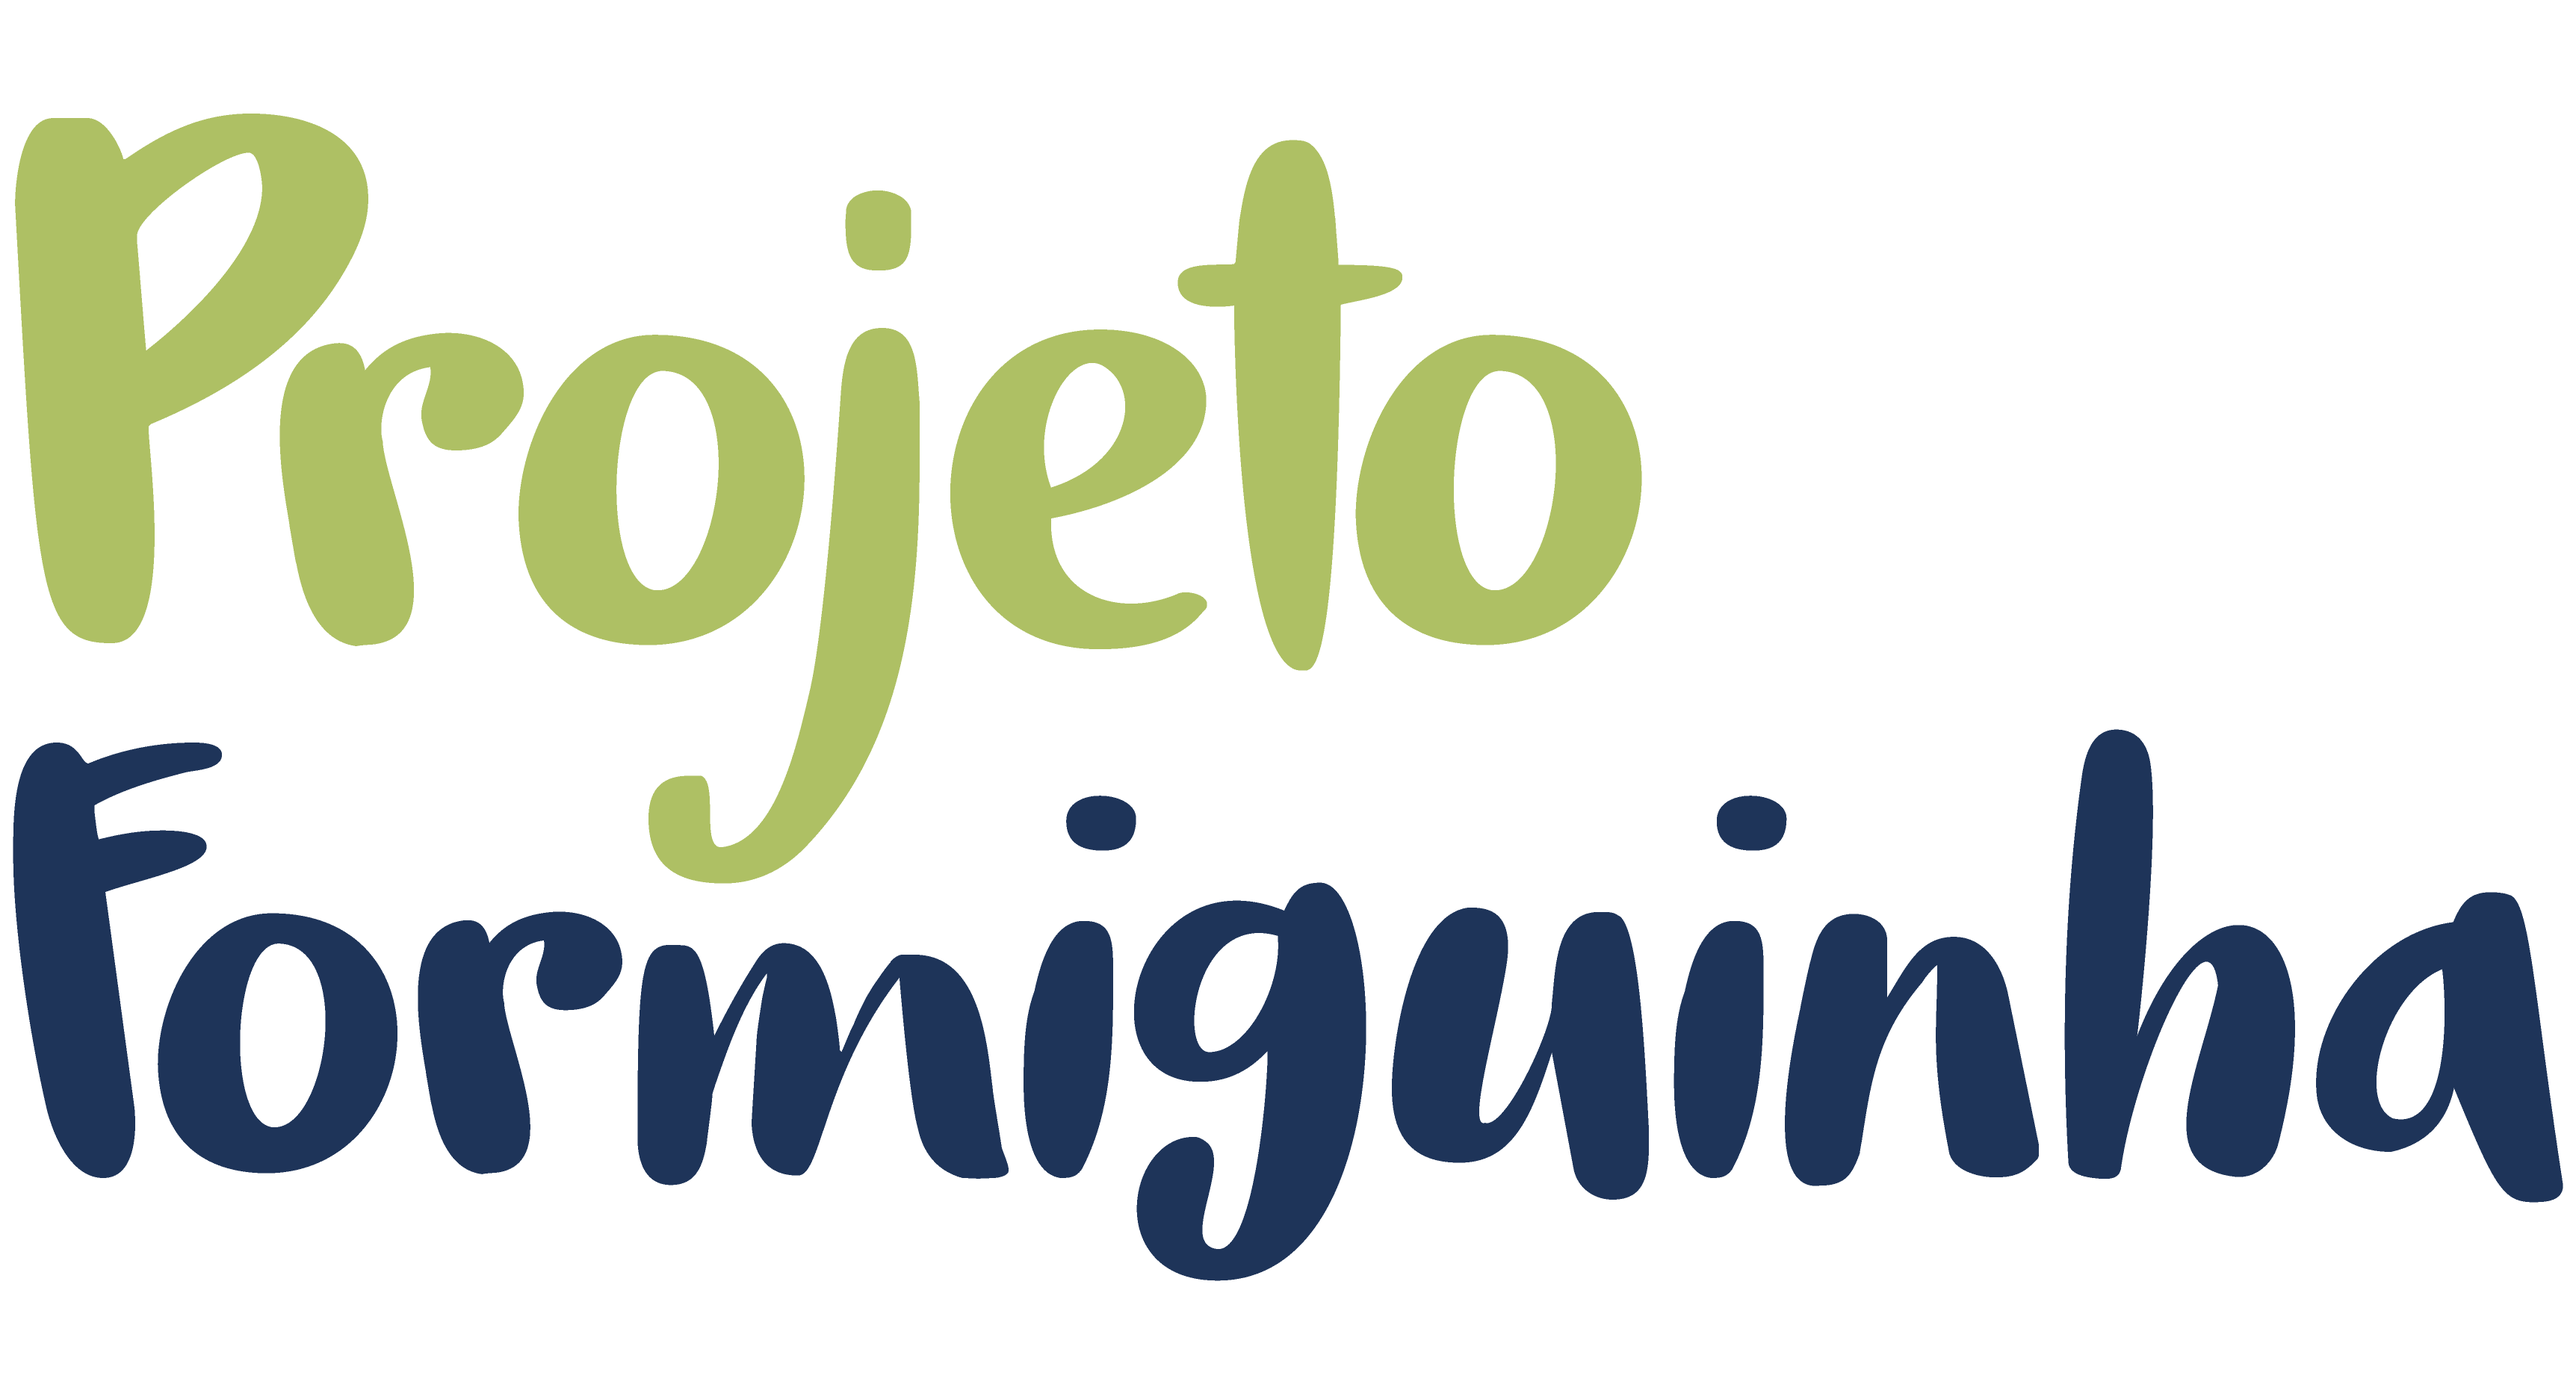
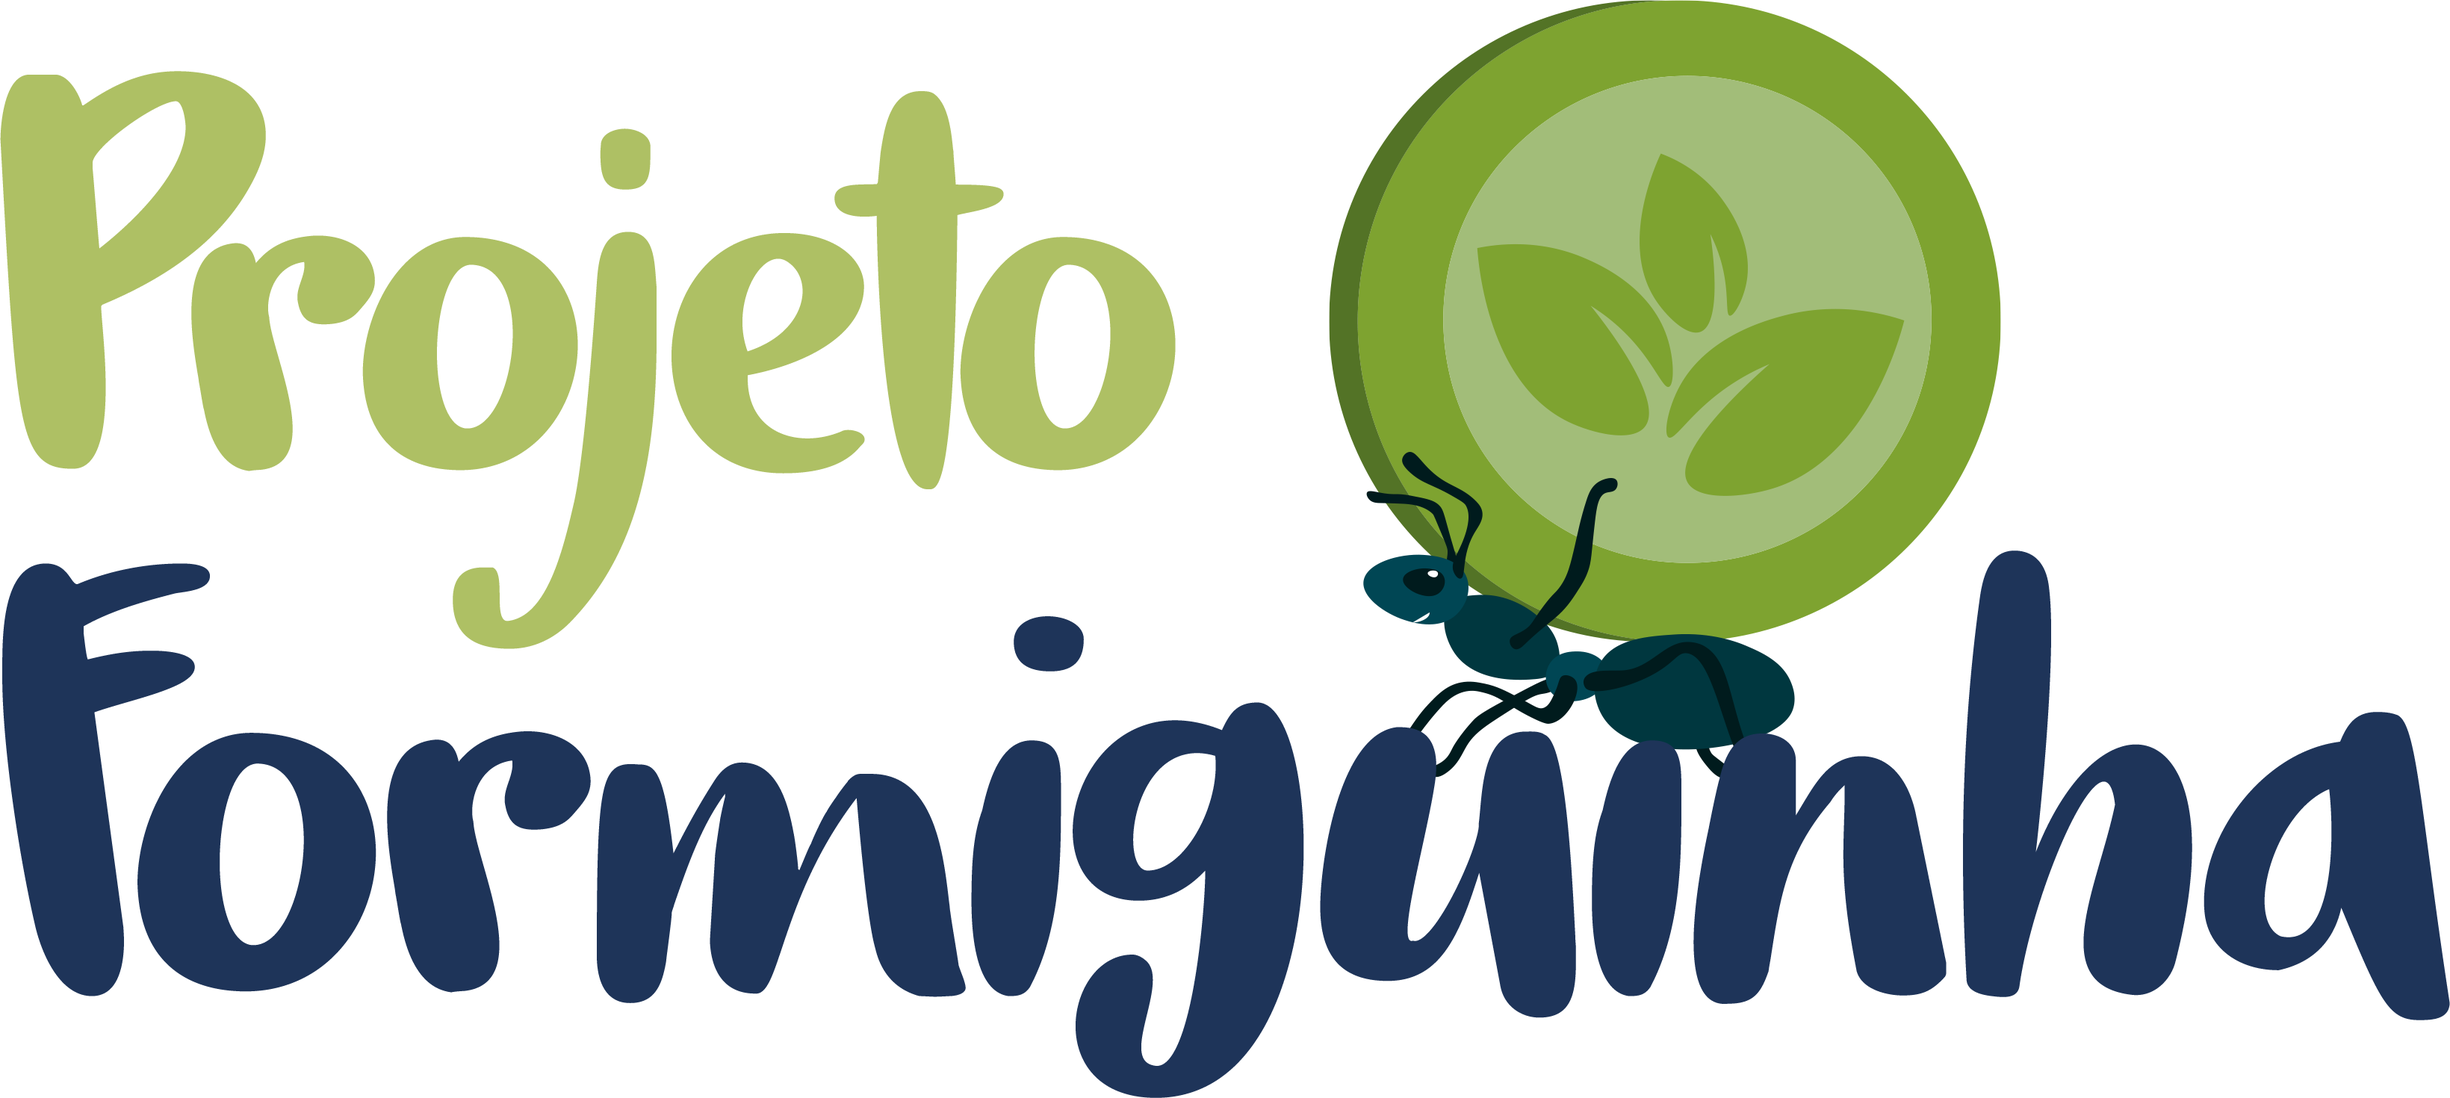
juntar nav e o carrossel atualizado

diff --git a/website/static/css/index.css b/website/static/css/index.css
@@ -10,54 +10,44 @@ body{
     font-family: 'Spinnaker', sans-serif;
 }
 
-.carrossel{
+#carrossel{
+    grid-area: carrossel;
     display: flex;
     flex-direction: column;
     align-items: center;
     grid-area: carrossel;
 }
 
-#slide_caixa{
-    height: 100%;
-    width: 100%;
-    transition-property: all;
-    transition-duration: 0.5s;
-    transition-timing-function: ease-in;
-    transition-delay: 0.5s;
-    background-size: cover;
-
-}
-
-/* ESTILIZAR SETINHAS PARA A TROCA DE IMAGEM */
-/* 
-.setinhas{
+#carrossel div{
     display: flex;
-    align-items: center;
+    flex-direction: column-reverse;
+    flex-wrap: nowrap;
+    align-items: flex-end;
 }
-.setinha_maior, .setinha_menor{
-width: 80px;
-height: 80px;
-color: #fff;
-text-align: center;
-font-size: 3em;
-border-radius: 100px;
-background: rgba(0, 0, 0, 0.5);
-position: absolute;
-top:220px;
-left: 15px;
+
+#carrossel img{
+    position: absolute;
+    height: 300px;
+    width: 300px;
 }
-.setinha_maior{
-right: 15px;
-left: auto;
+
+.geometrica{
+    border-top: 100px solid transparent;
+    border-right-width: 1500px; 
+    border-right-style: solid; 
+    border-right-color: #fdfdfd;
 }
-.setinha_maior:hover, .setinha_menor:hover{
-   background: rgba(0, 0, 0, 0.8);
-   transition-property: all;
-   transition-duration: .5s;
-   transition-timing-function: ease-out;
-   transition-delay: 0.2s;
-   cursor: pointer;
-} */
+
+.sombra{
+    display: flex;
+    flex-direction: column-reverse;
+    flex-wrap: nowrap;
+    align-items: flex-end;
+    background: rgba(0, 0, 0, 0.349);
+    width: 100%;
+    height: 100%;
+    top: 0;
+}
 
 .dados{
     background-color: rgb(31, 42, 140);

diff --git a/website/templates/index.html b/website/templates/index.html
@@ -6,10 +6,11 @@
     <meta charset="UTF-8">
     <meta name="viewport" content="width=device-width, initial-scale=1.0">
     <meta http-equiv="X-UA-Compatible" content="ie=edge">
+    <link rel="shortcut icon" href="{% static 'img/logo/formiga_logo.png' %}" type="image/x-icon"/>
     <link href="https://fonts.googleapis.com/css?family=Spinnaker&display=swap" rel="stylesheet">
     <link href="https://fonts.googleapis.com/css?family=Ubuntu&display=swap" rel="stylesheet">
     <link rel="stylesheet" href="{% static 'css/index.css' %}">
-    <link rel="stylesheet" href="{% static 'css/nav.css' %}">
+    <link rel="stylesheet" href="{% static 'css/navindex.css' %}">
     <link rel="stylesheet" href="{% static 'css/footer.css' %}">
     <script defer src="{% static 'js/index.js' %}"></script>
     <title>Projeto Formiguinha</title>
@@ -18,21 +19,18 @@
 <body>
     {% include 'shared/nav.html' %}
 
-    <section class="carrossel" id="slide_caixa">
-        <!-- <div class="setinhas">
-                    <a href="#" class="setinha_menor">&lt;</a>
-                    <a href="#" class="setinha_maior">&gt;</a>
-            </div> -->
+    <section id="carrossel">
+        <div class="sombra">
+            <div class="geometrica"></div>
+        </div>
     </section>
 
-    <!-- CRIAR SESSÃO PARA A PESQUISA DE DADOS -->
     <section class="dados">
         <div></div>
         <div></div>
         <div></div>
     </section>
 
-    <!-- CRIAR SESSAO PARA OS EIXOS QUE O PROJETO ABORDA -->
     <section class="steps">
         <div>
             <img src="static/img/index/passos.png" alt="">

diff --git a/website/templates/shared/nav.html b/website/templates/shared/nav.html
@@ -1,30 +1,22 @@
 {% if user.is_authenticated %}
 <nav id="menu_logout">
-    <a href="/"><img src="/static/img/nav/formiga_logo.png" alt=""></a>
-    <div class="menu_esquerdo">
-        <a href="/loja">Loja</a>
-        <a href="">Explore</a>
-        <a href="#sobre">Sobre Nós</a>
-        <a href="/contato">Contato</a>
-        <a href="/cadastro">Escola</a>
-    </div>
-    <div class="menu_direito">
-        <a href="/logout">Sair</a>
+    <a class="a_logo" href="/"><img class="logo" src="static/img/nav/projeto-formiguinha.png" alt=""></a>
+    <div class="menu">
+        <a href="/loja">LOJA</a>
+        <a href="">EXPLORE</a>
+        <a href="/portaldaescola">PORTAL DA ESCOLA</a>
+        <a href="/logout">LOGOUT</a>
     </div>
 </nav>
 
 {% else %}
 <nav id="menu_login">
-    <a href="/"><img src="/static/img/nav/formiga_logo.png" alt=""></a>
-    <div class="menu_esquerdo">
-        <a href="/loja">Loja</a>
-        <a href="">Explore</a>
-        <a href="#sobre">Sobre Nós</a>
-        <a href="/contato">Contato</a>
-        <a href="/cadastro">Escola</a>
-    </div>
-    <div class="menu_direito">
-        <a href="/login">Entrar</a>
+    <a class="a_logo" href="/"><img class="logo" src="static/img/nav/projeto-formiguinha.png" alt=""></a>
+    <div class="menu">
+        <a href="/loja">LOJA</a>
+        <a href="">EXPLORE</a>
+        <a href="/cadastro">CADASTRO</a>
+        <a href="/login">LOGIN</a>
     </div>
 </nav>
 {% endif %}

diff --git a/website/static/js/index.js b/website/static/js/index.js
@@ -1,5 +1,5 @@
 let imgs = [];
-let slideCaixa = document.getElementById("slide_caixa");
+let slideCaixa = document.getElementById("carrossel");
 let imgAtual;
 let numMaiorImg;
 let tempoImg;
@@ -9,7 +9,7 @@ let tempoImg;
 //CRIAR UMA FUNÇÃO QUE FAZ O CARREGAMENTO DO CAMINHO PARA ACESSAR A IMAGEM E ADICIONAR AO VETOR
 function puxarImg(){
     let n = 1;
-    for( let i = 0; i<2; i++){
+    for(let i = 0; i<3; i++){
         imgs[i] = new Image();
         imgs[i].src = "static/img/index/imagem"+n+".jpg";
         n++;
@@ -39,21 +39,15 @@ function troca(){
     mostrarImagens(imgAtual);
 }
 
-//QUANDO A PAGINA FOR CARREGADA
+//QUANADO A PAGINA FOR CARREGADA
 window.addEventListener("load", iniciar);
 
-//------------------------------ FIM CARROSSEL----------------------------------------------------------
-
-//------------------------------MENU----------------------------------------------------------
-
-//TROCAR A COR DO MENU QUANDO A PAGINA ROLAR E SEU EIXO Y FOR MAIOR QUE 100PX
 window.onscroll = function (){
-    let menu = document.querySelector("#menu");
+    let menu = document.querySelector("#menu_login", "#menu_logout");
     if (window.pageYOffset > 100){
-        menu.style.backgroundColor = "#29402f";
+        menu.style.backgroundColor = "rgba(50, 112, 53, 0.900)";
     }
-    
     else{
-        menu.style.backgroundColor = "rgba(41, 64, 47, 0.37)";
+        menu.style.backgroundColor = "rgba(0, 0, 0, 0)";
     }
 }

diff --git a/website/static/css/login.css b/website/static/css/login.css
@@ -6,16 +6,10 @@ body{
     color: #212529;
     text-align: left;
     display: grid;
-    grid-template-areas: 'nav nav nav nav'
-                         'section section section section'
+    grid-template-areas: 'section section section section'
                          'footer footer footer footer';
-    grid-template-rows: 10vh 90vh 30vh;
-    grid-template-columns: 32.9vw 32.9vw 32.9vw;
-}
-
-nav{
-    grid-area: nav;
-    z-index: 2;
+    grid-template-rows: 100vh 30vh;
+    grid-template-columns: 49vw 49vw;
 }
 
 section{
@@ -28,10 +22,10 @@ section{
 }
 
 .section_login{
-    height: 93%;
+    height: 80%;
     width: 50%;
     border-radius: 10px;
-    margin-top: 20px;
+    margin-top: 100px;
     display: flex;
     justify-content: center;
     background-color: white;
@@ -76,7 +70,6 @@ section{
 }
 
 .borda_login{
-    width: 0.3px;
     height: 200px;
     border: 1px solid black;
 }

diff --git a/website/templates/cadastro.html b/website/templates/cadastro.html
@@ -21,7 +21,7 @@
             colocar o Projeto Formiguinha em ação! =)
         </p>
         
-        <p class="pbotao"><strong>A escola já está cadastrada?</strong></p>
+        <p class="pbotao"><strong>A ESCOLA JÁ ESTÁ CADASTRADA?</strong></p>
         <a href="/login" class="entrar"> 
             <input type="button" value="Entrar">
         </a>

diff --git a/website/static/css/navindex.css b/website/static/css/navindex.css
@@ -20,7 +20,7 @@ body{
     align-items: center;
     display: flex;
     justify-content: space-between;
-    background-color: rgba(50, 112, 53, 0.900);
+    background-color: rgba(50, 112, 53, 0);
     align-items: center;
     position: fixed;
     font-family: 'Spinnaker', sans-serif;
